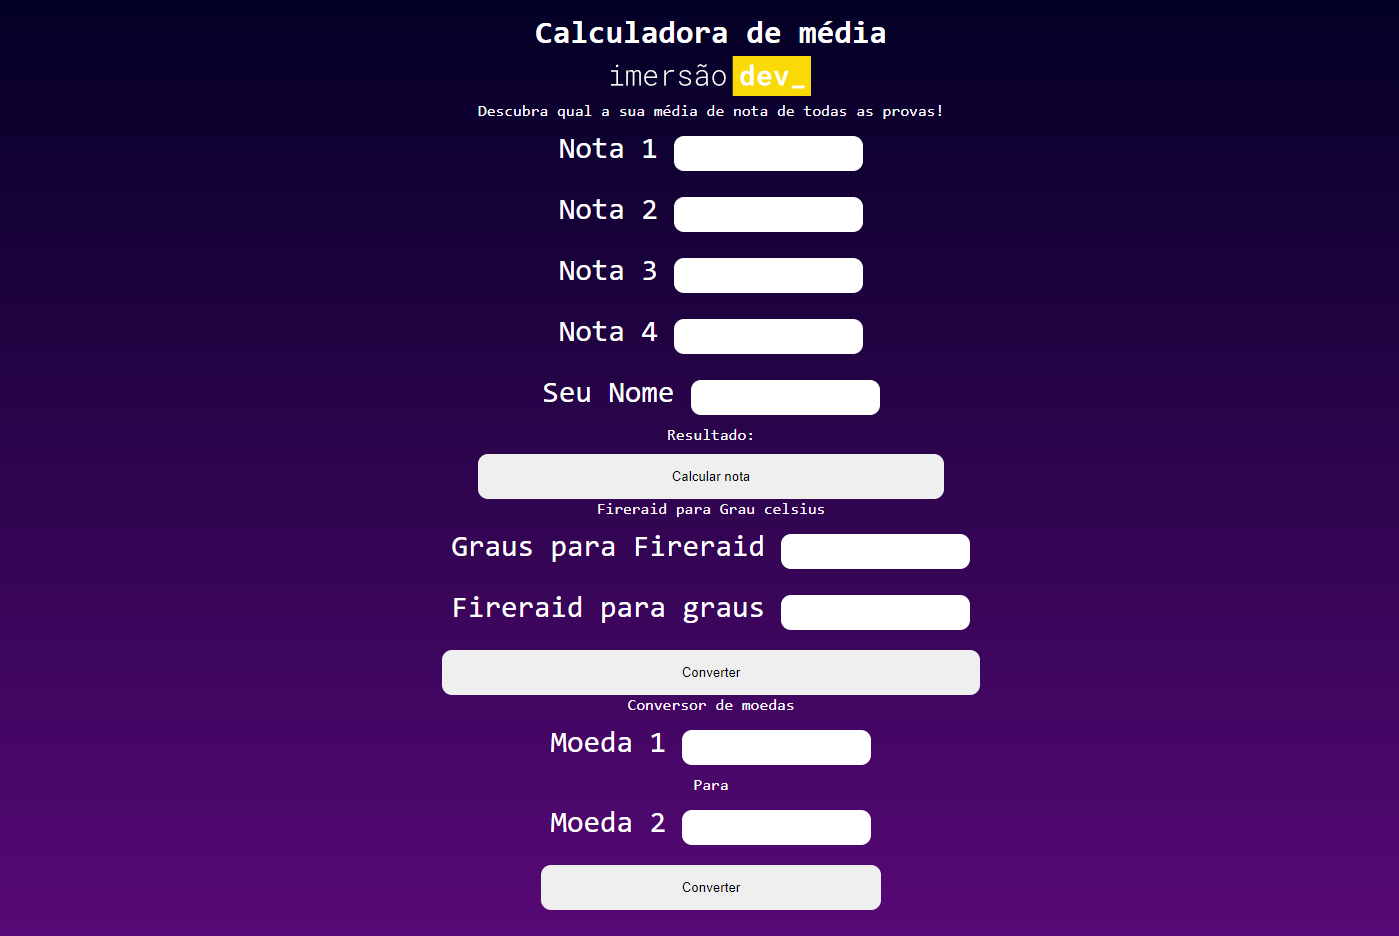
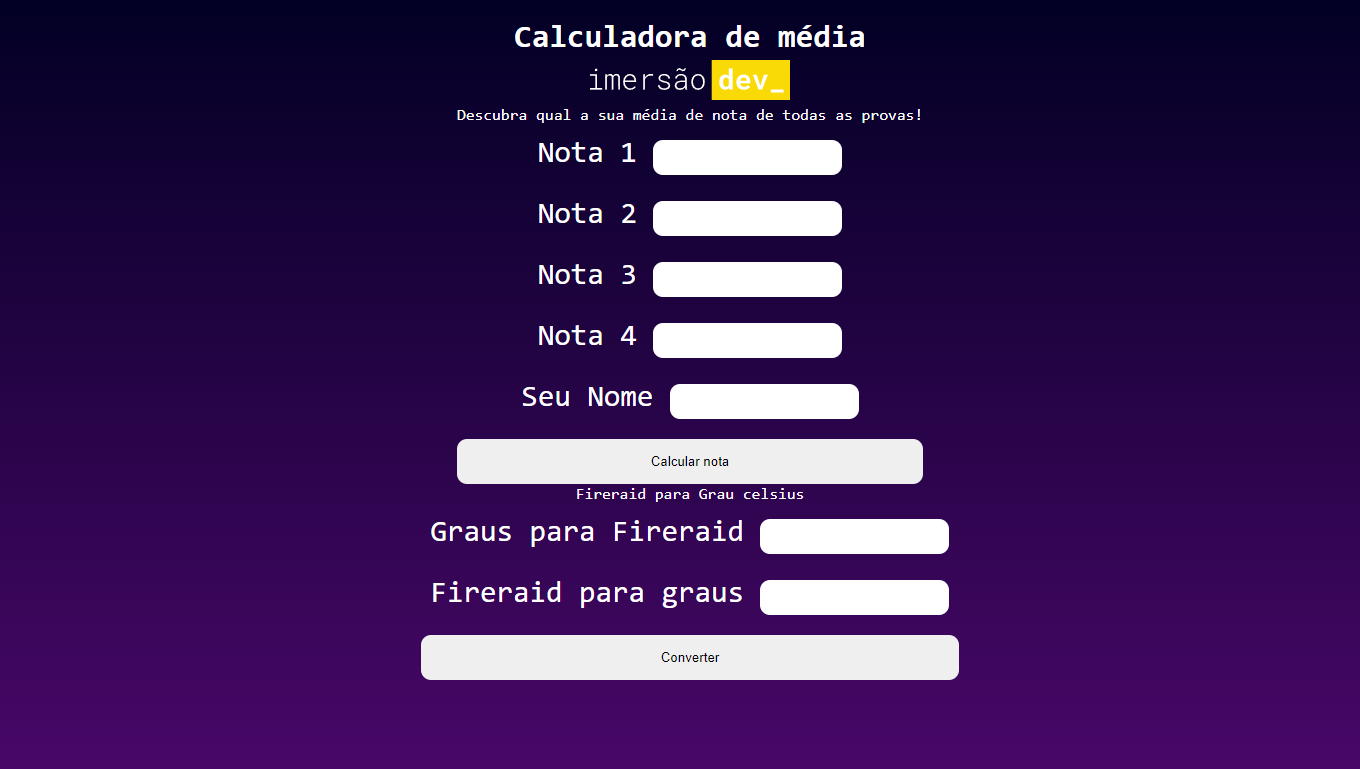
Atualizando o primeiro projeto

Changed region(s): [[0.3088, 0.3433, 0.7103, 0.9987], [0.3397, 0.0, 0.6794, 0.3121]]

diff --git a/1_CALCULADOR_DE_MEDIA/assets/js/script.js b/1_CALCULADOR_DE_MEDIA/assets/js/script.js
@@ -1,24 +1,100 @@
-
 // Variaveis, Stings, console.log, função toFixed, operações metematicas, interpolação(concatenação), debug com console.log
 
-// Calcular media
-function calcularMedia(){
+// Não deixa passar numeros e caracteres estranhos
 
+function validaCampos() {
+  document.getElementById("seunome").onkeypress = function (e) {
+    let chr = String.fromCharCode(e.which);
+    if ("qwertyuioplkjhgfdsazxcvbnmQWERTYUIOPLKJHGFDSAZXCVBNM".indexOf(chr) < 0)
+      return false;
+  };
+  document.getElementById("nota1").onkeypress = function (e) {
+    let chr = String.fromCharCode(e.which);
+    if ("1234567890".indexOf(chr) < 0) return false;
+  };
+  document.getElementById("nota2").onkeypress = function (e) {
+    let chr = String.fromCharCode(e.which);
+    if ("1234567890".indexOf(chr) < 0) return false;
+  };
+  document.getElementById("nota3").onkeypress = function (e) {
+    let chr = String.fromCharCode(e.which);
+    if ("1234567890".indexOf(chr) < 0) return false;
+  };
+  document.getElementById("nota4").onkeypress = function (e) {
+    let chr = String.fromCharCode(e.which);
+    if ("1234567890".indexOf(chr) < 0) return false;
+  };
+
+  document.getElementById("graus").onkeypress = function (e) {
+    let chr = String.fromCharCode(e.which);
+    if ("-1234567890".indexOf(chr) < 0) return false;
+  };
+
+  document.getElementById("fireraid").onkeypress = function (e) {
+    let chr = String.fromCharCode(e.which);
+    if ("-1234567890".indexOf(chr) < 0) return false;
+  };
+}
+
+validaCampos();
+
+// Calcular media
+function calcularMedia() {
+  let nota1 = document.getElementById("nota1").value;
+  let nota2 = document.getElementById("nota2").value;
+  let nota3 = document.getElementById("nota3").value;
+  let nota4 = document.getElementById("nota4").value;
+
+  let nome = document.getElementById("seunome").value;
+
+  let resultado = document.getElementById("resultado");
+
+  if (nota1 == "" || nota2 == "" || nota3 == "" || nota4 == "" || nome == "") {
+    resultado.innerHTML = "Preencha todos os campos!!!";
+    resultado.style.color = "red";
+  } else {
+    let resultadoFinal =
+      (Number(nota1) + Number(nota2) + Number(nota3) + Number(nota4)) / 4;
+    if (resultadoFinal >= 10) {
+      resultado.innerHTML = `Parabens ${nome} você conseguiu passar com a media de ${resultadoFinal.toFixed(
+        2
+      )} :D'`;
+      resultado.style.color = "green";
+    } else {
+      resultado.innerHTML = `${nome} infelizmente você não conseguiu passar com a media de ${resultadoFinal.toFixed(
+        2
+      )} D:'`;
+      resultado.style.color = "red";
+    }
+  }
 }
 
 // Conversores: fahrenheit para graus celsius e moedas
 
-function conversorGrau(){
+function conversorGrau() {
+  let campoCelsius = document.getElementById("graus").value;
 
+  let campoFireraid = document.getElementById("fireraid").value;
+
+  let calculoFahrenheit = (9 * parseFloat(campoCelsius)) / 5 + 32;
+
+  let resultadoFireraid = document.getElementById("resultadoFireraid");
+  resultadoFireraid.innerHTML = `Graus: ${campoCelsius} para fahrenheit é: ${calculoFahrenheit}`;
+
+  let calculoCelsius = (5 * parseFloat(campoFireraid) - 32) / 9;
+
+  let resultadoGraus = document.getElementById("resultadoGraus");
+  resultadoGraus.innerHTML = `fahrenheit: ${campoFireraid} para Graus é: ${calculoCelsius}`;
+
+  if (campoCelsius === "" && campoFireraid === "") {
+    let resultadoGeral = document.getElementById("resultadoGeral");
+    resultadoGeral.innerHTML = `TODOS OS CAMPOS ESTÃO VAZIOS!!!`;
+    resultadoGeral.style.display = "block";
+    resultadoGeral.style.color = "red";
+  } else {
+    resultadoGeral.style.display = "none";
+  }
 }
-
-function conversorMoeda(){
-    
-}
-
-
-
-
 
 // var nome = "Gui"
 // var nota1 = 9

diff --git a/1_CALCULADOR_DE_MEDIA/index.html b/1_CALCULADOR_DE_MEDIA/index.html
@@ -22,53 +22,43 @@
           </p>
           <label for="Nota1">
             Nota 1
-            <input type="text" name="" id="" />
+            <input type="text" name="" id="nota1" />
           </label>
           <label for="Nota2">
             Nota 2
-            <input type="text" name="" id="" />
+            <input type="text" name="" id="nota2" />
           </label>
           <label for="Nota3">
             Nota 3
-            <input type="text" name="" id="" />
+            <input type="text" name="" id="nota3" />
           </label>
           <label for="Nota4">
             Nota 4
-            <input type="text" name="" id="" />
+            <input type="text" name="" id="nota4" />
           </label>
           <label for="SeuNome"
             >Seu Nome
-            <input type="text" name="" id="" />
+            <input type="text" name="" id="seunome" />
           </label>
-          <p>Resultado:</p>
+          <p id="resultado"></p>
           <button onClick="calcularMedia()">Calcular nota</button>
         </div>
 
         <div class="page-calculadora">
           <p>Fireraid para Grau celsius</p>
-          <label for="Nota1">
+          <p id="resultadoGeral"></p>
+          <label for="graus">
             Graus para Fireraid
-            <input type="text" name="" id="" />
+            <input type="text" name="" id="graus" />
           </label>
-          <label for="Nota1">
-            Fireraid para graus
-            <input type="text" name="" id="" />
-          </label>
-          <button onClick="conversorGrau()">Converter</button>
-        </div>
+          <p id="resultadoFireraid"></p>
 
-        <div class="page-calculadora">
-          <p>Conversor de moedas</p>
-          <label for="Nota1">
-            Moeda 1
-            <input type="text" name="" id="" />
+          <label for="fireraid">
+            Fireraid para graus
+            <input type="text" name="" id="fireraid" />
           </label>
-          <p>Para</p>
-          <label for="Nota1">
-            Moeda 2
-            <input type="text" name="" id="" />
-          </label>
-          <button onClick="conversorMoeda()">Converter</button>
+          <p id="resultadoGraus"></p>
+          <button onClick="conversorGrau()">Converter</button>
         </div>
       </div>
     </div>

diff --git a/1_CALCULADOR_DE_MEDIA/assets/CSS/style.css b/1_CALCULADOR_DE_MEDIA/assets/CSS/style.css
@@ -74,4 +74,10 @@ button{
   border-radius: 10px;
   border: none;
   margin-top: 10px;
+  cursor: pointer;
+}
+
+button:hover{
+  background: linear-gradient(rgba(2, 0, 36, 0.747), #59097938);
+  color: #ffffff;
 }
